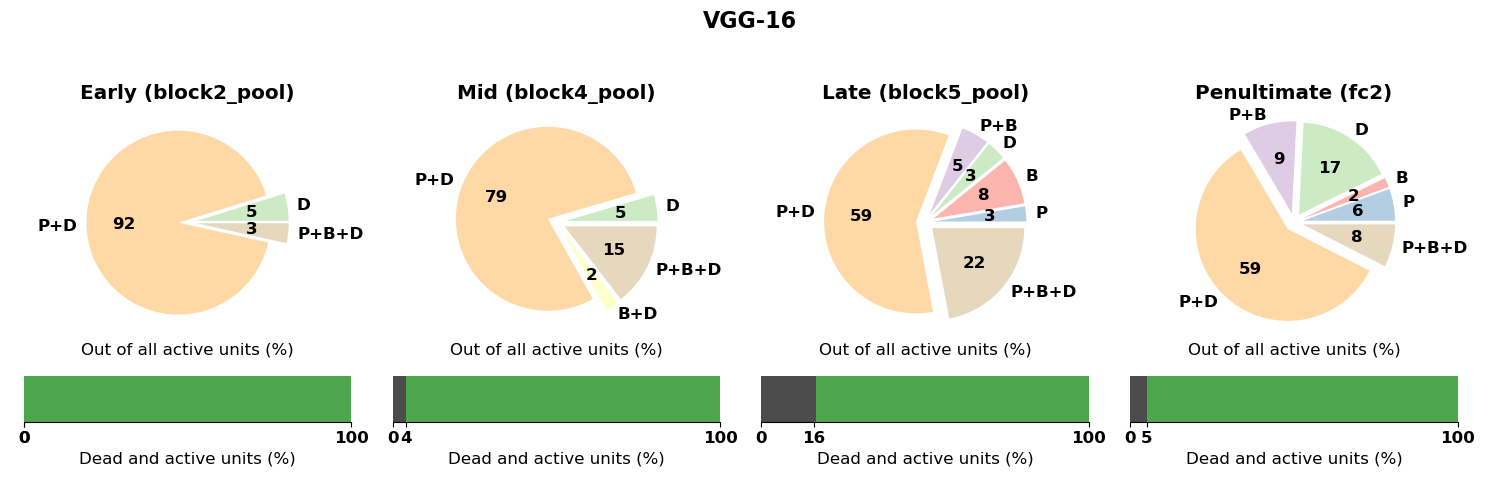
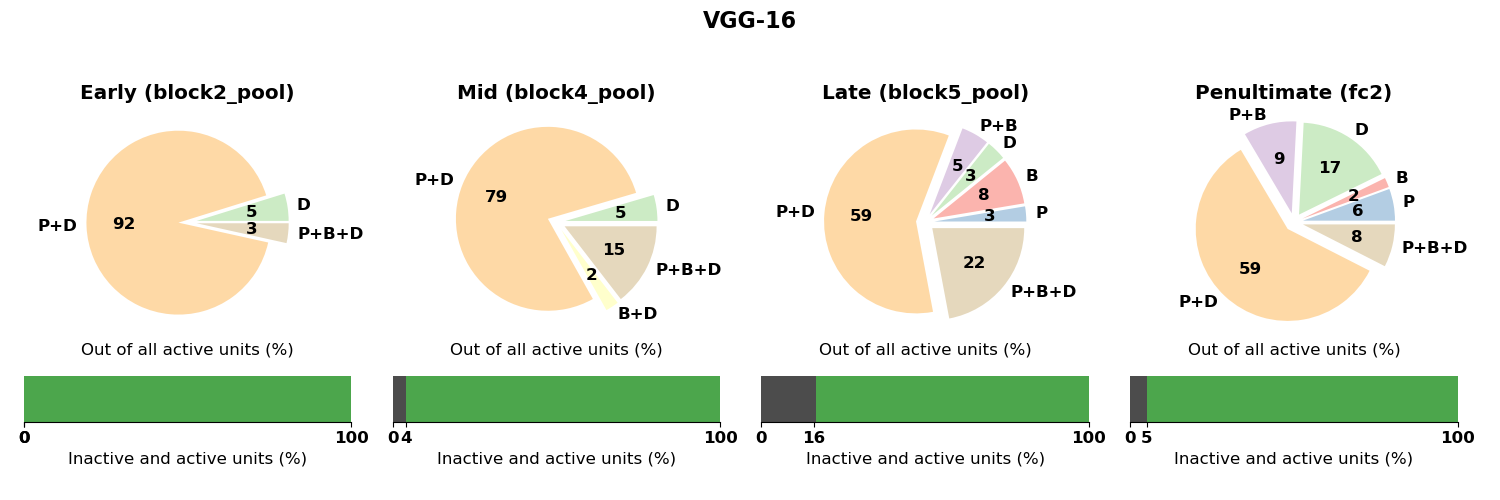
improve fig legend

diff --git a/figures_paper.py b/figures_paper.py
@@ -1876,7 +1876,7 @@ def unit_chart_visualization_piechart():
 
             ax.add_patch(rect1)
             ax.add_patch(rect2)
-            ax.set_xlabel('Dead and active units (%)')
+            ax.set_xlabel('Inactive and active units (%)')
 
             # set x-axis ticks only (0, width1, 100), round to 0 decimal places
             ax.set_xticks([0, int(width1), 100], minor=False)
@@ -1895,6 +1895,6 @@ if __name__ == '__main__':
     # decoding_each_model_across_layers_and_sr()
     # decoding_all_models_one_layer_one_sr()
     # lesion_by_coef_each_model_across_layers_and_lr()
-    lesion_by_unit_chart_each_model_across_layers_and_lr()
+    # lesion_by_unit_chart_each_model_across_layers_and_lr()
     # unit_visualization_by_type()
-    # unit_chart_visualization_piechart()
+    unit_chart_visualization_piechart()
